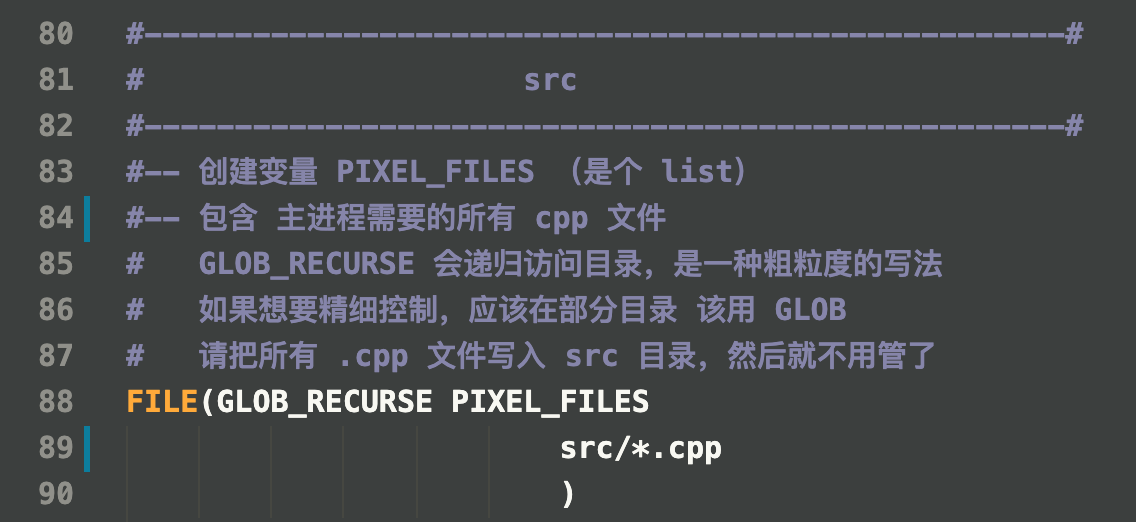
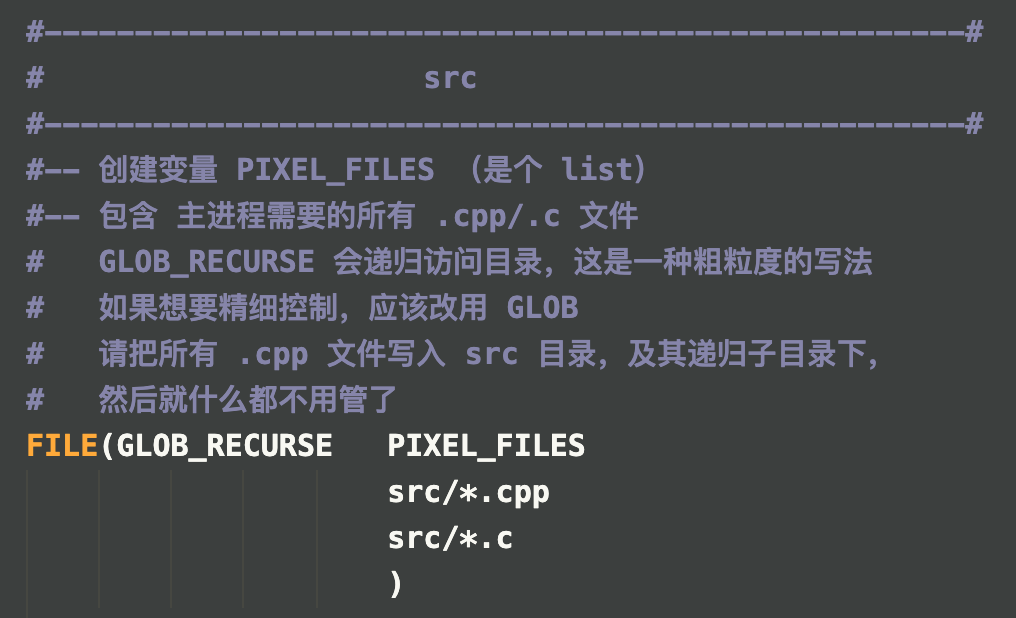
cmake recursive include paths

diff --git a/README.md b/README.md
@@ -185,7 +185,10 @@
 
 
 ## 如何添加 C++ 代码文件（.h/.cpp/.hpp）
-请将所有 C++ 代码文件，放入 `.../appRootDir/src/` 目录下。这个目录的默认设置如下：
+
+### .c/.cpp 文件
+
+请将所有 C++ 代码文件，放入 `.../appRootDir/src/` 目录（及其递归子目录）下。这个目录的默认设置如下：
 
 ![src folder](Docs/pngs/use/src_folder.png)
 
@@ -195,29 +198,33 @@
 - 目录：`classA` 放置一组示范用 class 代码
 
 
-原则上，你可以在目录 `src` 下创建任意 子目录（递归）或文件。在目前的 cmake 设置中，所以位于目录 `src` （及其递归子目录）下的 **.cpp**， 都会被自动查找到并编译，正如 文件 `CMakeLists.txt` 中所写：
+原则上，你可以在目录 `src` 下创建任意 子目录（递归）或文件。在目前的 cmake 设置中，所以位于目录 `src` （及其递归子目录）下的 **.c/.cpp**， 都会被自动查找到并编译，正如 文件 `CMakeLists.txt` 中所写：
 
 ![src files set in cmake](Docs/pngs/use/cmake_1.png)
 
 
-**但是**，`.h` 文件未能实现这份自动化。如果你的某个 目录中，包含 `.h` 文件，并希望它被 cmake 直接查找到，你应该将这个 **新增的目录路径**，添加到文件 `CMakeLists.txt` 中。格式如下：
 
-![h files set in cmake](Docs/pngs/use/cmake_2.png)
+### .h/.hpp 文件
 
-
-依葫芦画瓢写进去就行，如果你对这段语法不熟悉，可以学习下 cmake: `target_include_directories` 的用法（废话...）
-
-另一方面，由于目前的 include 路径列表中，已经包含了 `src` 目录。所以，你还有一种选择：
-假设你在 `.../src/B/` 目录下，创建了文件 `B.h`，你可以在 C++文件中直接编写：
-
-    #include "B/B.h"
-
-这种方法虽然繁琐，但省去了对 `CMakeLists.txt` 的改写。
-
-整体上，我推荐大家使用第一种写法，毕竟，在一个项目中，添加目录并不是一件非常频繁的事。尤其是进入到项目中后期。
+与 `.c/.cpp` 文件一致, `.h/.hpp` 文件也请全部放到 `src/` 目录中。一种推荐的做法是，将同一个模块的代码文件: `.h/.hpp/.c/.cpp` 放在同一个目录下。
 
 
-当然，一定还存在更加高效地，自动包含所有 `.h` 文件的 **cmake** 写法。如果有，还请大家告诉我（ 我的 cmake 玩得太菜了hhhh...
+我们在 `CMakeLists.txt` 下编写了一个宏函数 `collect_head_dirs`, 它将自动遍历 `src/` 及其所有递归子目录。如果某个目录内含 `.h/.hpp` 文件。这个目录就会被收集到一个 `list` 中。最后,这个 `list` 会被自动添加进 include 路径列表。
+
+所以，当你在 `src/` 及其递归子目录 下的任何位置添加 `.h/.hpp` 文件时，cmake 都能自动帮你 include 好。
+
+比如说，你在目录 `.../src/a/b/c/` 下，新建文件 `koko.h`, 那么，你就能在 `src/` 目录下的任一 代码文件内，inlcude 到它：
+    
+    #include "koko.h"
+
+而不是需要繁琐地写为：
+
+    #include "a/b/c/koko.h"
+
+当然，这种实现存在一个代价，就是强制要求你在 `src/` 目录下的所有 `.h/.hpp` 文件，都不能重名。
+
+最后，如果你不喜欢这种实现，你可以在 `CMakeLists.txt` 中放弃这个 宏函数 的使用，通过手动添加 include 路径的方式，来精细地管理 include 路径列表。具体请搜索 cmake: `target_include_directories` 的用法。
+
 
 
 ## pch.h 到底是什么
@@ -256,14 +263,20 @@
 在 C++ 中，每一个第三方库，都有其独特的安装方式（包括如何写入 `CMakeLists.txt` 文件）在此暂不展开....
 
 
-## sysconfig 目录
-在根目录中，我们发现一个奇怪的目录 `sysconfig/`，它的体内包含一个名为 `SysConfig.h.in` 的文件。这个文件是提供给 cmake，生成平台相关信息 用的。在编译过程中，cmake 会根据当前信息，在目录 `.../publish/sysconfig/` 中，自动创建一个文件 `SysConfig.h`。
+## 如何在代码层实现跨平台
+
+最简单的跨平台方式就是：
+    让代码检查一组宏，从而得知，自己当前正运行在哪个平台。然后根据这层判断，跳入不同的分支，执行对应的代码。
+
+那么这组宏是从哪里来的呢？一个方式是，在项目编译阶段，由 cmake 工具写入某个 .h文件：
+
+在根目录中，我们会找到一个名为 `sysconfig/` 的目录。它的体内包含一个名为 `SysConfig.h.in` 的文件。这个文件就是提供给 cmake，用来生成平台相关信息 用的。在编译阶段中，cmake 会根据当前平台信息，在目录 `.../publish/sysconfig/` 中，自动创建一个文件 `SysConfig.h`，并且：
 
 - 如果当前处于 Mac 系统，这个.h文件中 会生成宏：TPR_OS_MACOSX_
 - 如果当前处于 Linux 系统，这个.h文件中 会生成宏：TPR_OS_LINUX_
 - 如果当前处于 win  系统，这个.h文件中 会生成宏：TPR_OS_WIN32_
 
-通过这个机制，你可以在自己的程序代码中，先 `#include "SysConfig.h"`，然后检查是否存在某个宏，来确定自己所处的 操作系统类型。对于那些跨平台的，且依赖平台API 的程序来说，这会是个有用的功能。（你可以编写数个的分支代码，来处理各个平台） 
+通过这个机制，你可以在自己的程序代码中，先 `#include "SysConfig.h"`，然后检查是否存在某个宏，来确定自己所处的 操作系统类型。对于那些跨平台的，且依赖平台API 的代码来说，这会是个有用的功能。
 
 
 ## 更多描述有待未来写入
